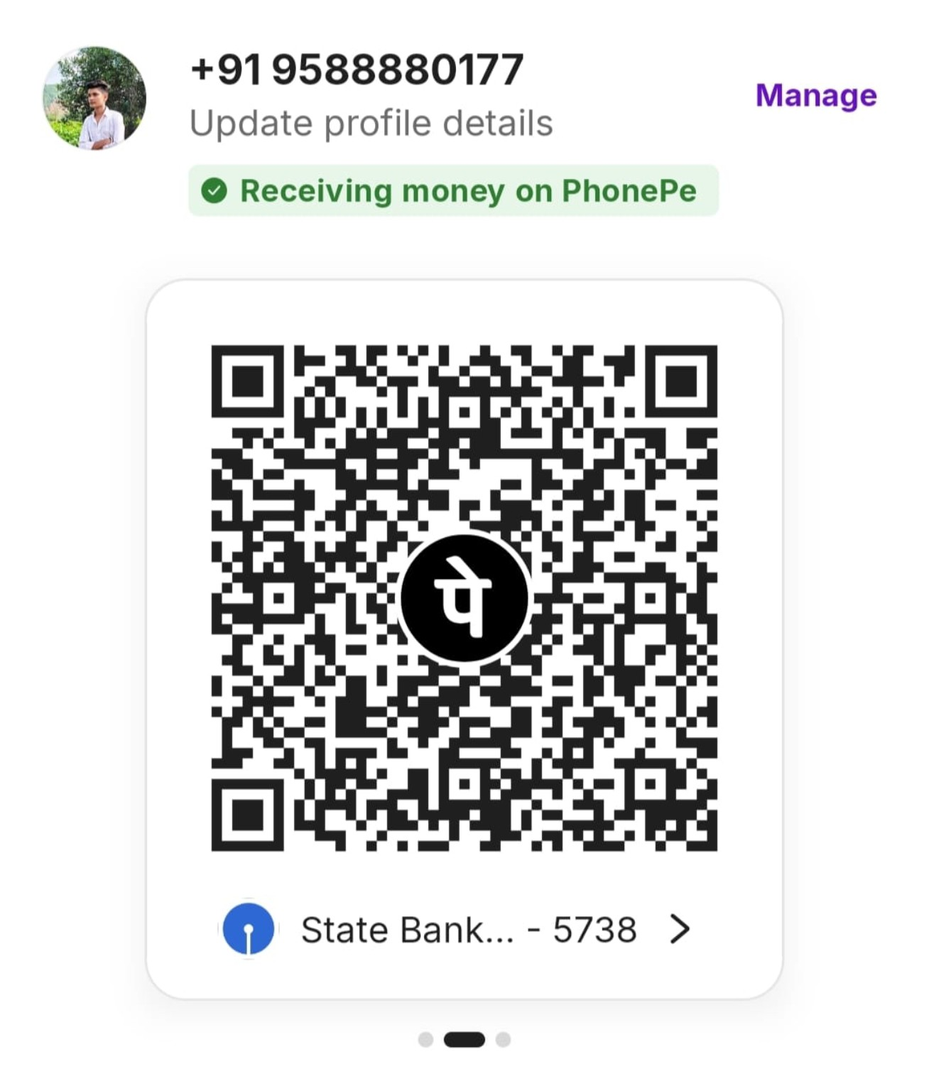
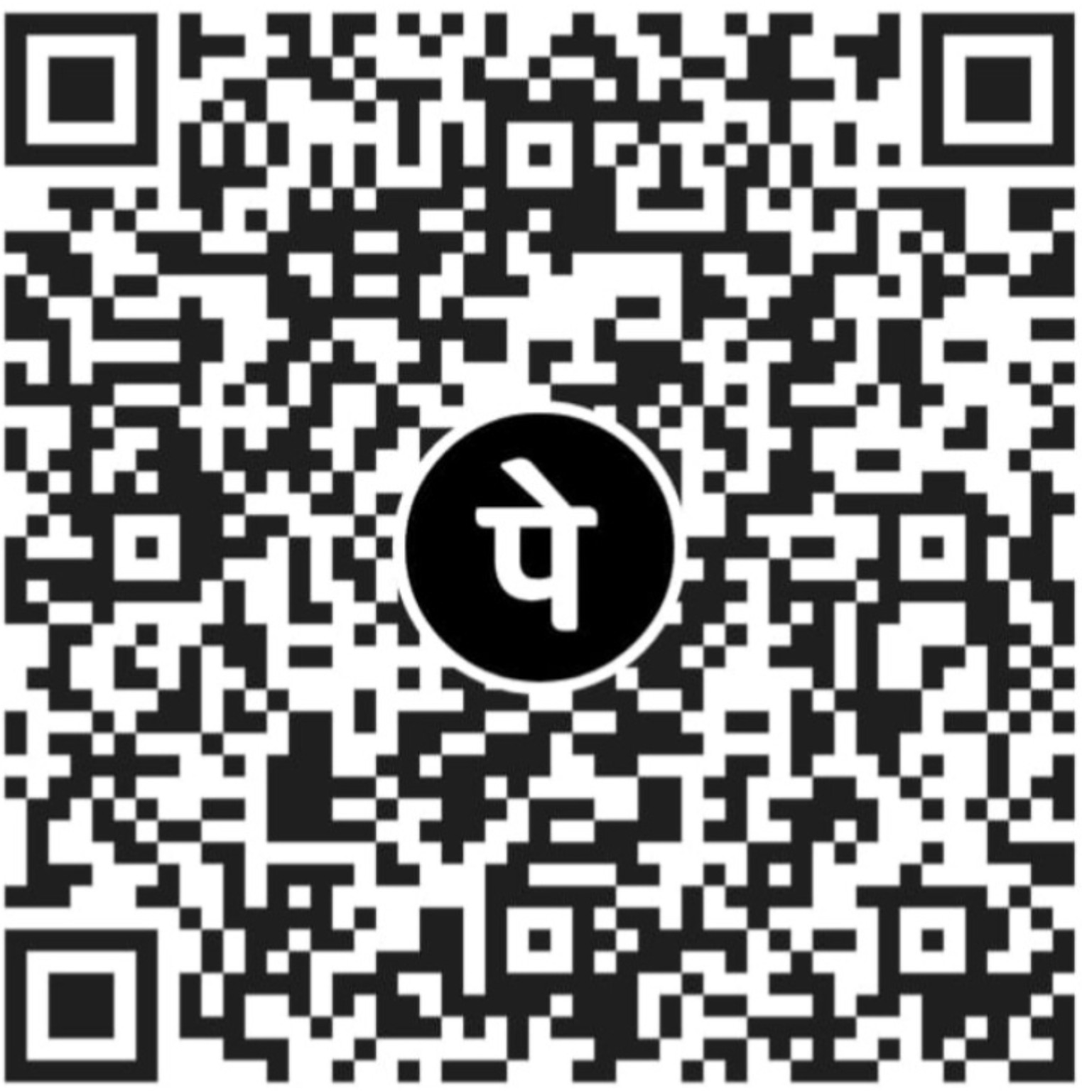
Add files via upload

diff --git a/index.html b/index.html
@@ -1,183 +1,146 @@
 <!doctype html>
-<html lang="en">
+<html lang="hi">
 <head>
-<meta charset="utf-8">
-<meta name="viewport" content="width=device-width, initial-scale=1">
-<meta name="theme-color" content="#090909">
-<title>DJ Karni Kripa | डीजे कर्णी कृपा</title>
-<meta name="description" content="DJ Karni Kripa — premium DJ services for weddings, birthdays, parties and functions across Sikar and up to 150 km.">
-<link rel="preconnect" href="https://fonts.googleapis.com">
-<link rel="preconnect" href="https://fonts.gstatic.com" crossorigin>
-<link href="https://fonts.googleapis.com/css2?family=Cormorant+Garamond:wght@500;600;700&family=Inter:wght@400;500;600;700&display=swap" rel="stylesheet">
-<style>
-:root{--bg:#070707;--card:#11100e;--gold:#d8ad52;--gold2:#f4d487;--muted:#a8a39a;--line:#2a261f;--white:#f8f5ee}
-*{box-sizing:border-box;scroll-behavior:smooth}
-body{margin:0;background:radial-gradient(circle at 75% 0,#21180a 0,transparent 30%),var(--bg);color:var(--white);font-family:Inter,system-ui,sans-serif}
-a{color:inherit;text-decoration:none}.container{width:min(1160px,92%);margin:auto}
-nav{position:fixed;top:0;left:0;right:0;z-index:20;background:rgba(7,7,7,.84);backdrop-filter:blur(16px);border-bottom:1px solid rgba(216,173,82,.15)}
-.navin{height:72px;display:flex;align-items:center;justify-content:space-between}.brand{font-weight:800;letter-spacing:.04em}.brand span{color:var(--gold)}
-.navlinks{display:flex;gap:24px;font-size:13px;color:#d8d2c7}.navlinks a:hover{color:var(--gold2)}
-.navcta{display:flex;gap:8px}.btn{display:inline-flex;align-items:center;justify-content:center;gap:8px;border:1px solid var(--gold);padding:12px 18px;border-radius:999px;font-weight:700;font-size:13px;cursor:pointer;transition:.2s}.btn.gold{background:linear-gradient(135deg,#b8862d,#f1ce79);color:#0a0907;border:0}.btn:hover{transform:translateY(-2px);filter:brightness(1.08)}
-.hero{padding:120px 0 70px;min-height:760px;display:grid;grid-template-columns:1.05fr .95fr;gap:40px;align-items:center}
-.eyebrow{color:var(--gold2);letter-spacing:.2em;text-transform:uppercase;font-size:12px;font-weight:700}.hero h1{font-family:"Cormorant Garamond",serif;font-size:clamp(58px,8vw,106px);line-height:.86;margin:16px 0}.hero h1 span{color:var(--gold)}.hero p{color:#c2bdb2;max-width:590px;line-height:1.8}.hero-actions{display:flex;gap:12px;flex-wrap:wrap;margin:26px 0}.trust{display:flex;gap:24px;color:#c8c0b2;font-size:13px;flex-wrap:wrap}.trust b{color:var(--white)}
-.photo-stage{position:relative;min-height:560px}.photo-stage img{width:100%;height:560px;object-fit:cover;border-radius:28px;border:1px solid #3a2d18;box-shadow:0 30px 90px rgba(0,0,0,.55)}.photo-stage:after{content:"";position:absolute;inset:14px;border:1px solid rgba(244,212,135,.35);border-radius:22px;pointer-events:none}.badge{position:absolute;bottom:22px;left:22px;background:rgba(7,7,7,.85);border:1px solid #4d3a1b;border-radius:18px;padding:15px 18px;backdrop-filter:blur(12px)}.badge strong{display:block;color:var(--gold2)}
-section{padding:85px 0}.section-head{display:flex;justify-content:space-between;align-items:end;gap:20px;margin-bottom:34px}.section-head h2{font-family:"Cormorant Garamond",serif;font-size:52px;margin:5px 0}.section-head p{color:var(--muted);max-width:550px;line-height:1.7}
-.cards{display:grid;grid-template-columns:repeat(4,1fr);gap:14px}.card{background:linear-gradient(145deg,#15130f,#0e0d0c);border:1px solid var(--line);border-radius:22px;padding:24px;min-height:170px}.icon{font-size:26px}.card h3{margin:18px 0 8px}.card p{color:var(--muted);font-size:13px;line-height:1.6}
-.pricegrid{display:grid;grid-template-columns:repeat(3,1fr);gap:18px}.price{border:1px solid #332917;background:#0e0d0b;border-radius:24px;padding:28px}.price.featured{border-color:var(--gold);box-shadow:0 0 0 1px rgba(216,173,82,.15),0 20px 60px rgba(0,0,0,.35)}.price .num{font-family:"Cormorant Garamond";font-size:50px;color:var(--gold2);margin:8px 0}.price small{color:var(--muted)}.price ul{padding-left:18px;color:#c5bfb3;line-height:2}
-.special{display:grid;grid-template-columns:1fr 1fr;gap:18px}.special .card{min-height:140px}
-.split{display:grid;grid-template-columns:1fr 1fr;gap:28px;align-items:center}.media{height:440px;border-radius:26px;object-fit:cover;width:100%;border:1px solid #3b2e19}.abouttext p{color:var(--muted);line-height:1.9}.aboutlist{display:grid;grid-template-columns:1fr 1fr;gap:10px;margin-top:22px}.pill{border:1px solid var(--line);padding:12px 14px;border-radius:12px;color:#d6cec0;font-size:13px}
-.calendar-wrap{background:#0d0c0a;border:1px solid var(--line);border-radius:26px;padding:22px}.legend{display:flex;gap:18px;flex-wrap:wrap;font-size:12px;color:#bdb5a8;margin-bottom:18px}.dot{width:9px;height:9px;border-radius:50%;display:inline-block;margin-right:6px}.available{background:#4fc477}.pending{background:#e6ae35}.booked{background:#e45b55}.calendar-grid{display:grid;grid-template-columns:repeat(7,1fr);gap:7px}.weekday{font-size:11px;color:#827c72;text-align:center;padding:8px}.day{min-height:78px;border:1px solid #25221d;border-radius:12px;padding:9px;background:#11100e;position:relative}.day .date{font-weight:700;font-size:12px}.day.available-day{border-color:#263b2b}.day.pending-day{border-color:#4b3b20}.day.booked-day{border-color:#482422}.status{position:absolute;bottom:8px;left:9px;font-size:10px;color:#aaa}.day small{display:block;margin-top:12px;color:#d2c9b9;font-size:9px;line-height:1.3}
-.booking{display:grid;grid-template-columns:1.1fr .9fr;gap:24px}.form{background:#0e0d0b;border:1px solid var(--line);border-radius:26px;padding:26px}.fields{display:grid;grid-template-columns:1fr 1fr;gap:14px}.field{display:flex;flex-direction:column;gap:7px}.field.full{grid-column:1/-1}.field label{font-size:12px;color:#aaa296}.field input,.field select{width:100%;padding:13px 14px;border-radius:12px;border:1px solid #302b23;background:#15130f;color:#fff;outline:none}.field input:focus,.field select:focus{border-color:var(--gold)}.paybox{background:linear-gradient(145deg,#16120b,#0c0b09);border:1px solid #49371a;border-radius:26px;padding:26px;text-align:center}.paybox img{width:230px;height:230px;object-fit:cover;border-radius:14px;background:#fff;padding:8px}.paybox .advance{font-size:30px;color:var(--gold2);font-weight:800;margin:10px}.note{font-size:11px;color:#918a7d;line-height:1.6}
-.contact{display:grid;grid-template-columns:1fr 1fr;gap:20px}.contact-card{background:#0e0d0b;border:1px solid var(--line);border-radius:22px;padding:26px}.contact-big{font-size:28px;color:var(--gold2);font-weight:800}
-footer{border-top:1px solid var(--line);padding:30px 0;color:#777168;font-size:12px}.floating{position:fixed;bottom:18px;right:18px;z-index:30;display:flex;flex-direction:column;gap:8px}.floatbtn{width:52px;height:52px;border-radius:50%;display:grid;place-items:center;background:#14110b;border:1px solid var(--gold);font-size:20px;box-shadow:0 10px 30px #000}
-.lang{border:1px solid #3a3020;border-radius:999px;padding:7px 10px;background:#0e0d0b;color:#d9caa9;cursor:pointer}
-@media(max-width:900px){.navlinks{display:none}.hero,.split,.booking,.contact{grid-template-columns:1fr}.hero{padding-top:105px}.photo-stage{min-height:440px}.photo-stage img{height:440px}.cards{grid-template-columns:1fr 1fr}.pricegrid{grid-template-columns:1fr}.section-head{display:block}.fields{grid-template-columns:1fr}}
-@media(max-width:520px){.cards,.special,.aboutlist{grid-template-columns:1fr}.hero h1{font-size:64px}.navcta .btn{padding:10px 12px}.day{min-height:65px;padding:7px}.day small{display:none}}
-</style>
+  <meta charset="utf-8">
+  <meta name="viewport" content="width=device-width,initial-scale=1">
+  <meta name="theme-color" content="#0b0b0d">
+  <title>DJ Karni Kripa | Premium DJ Service</title>
+  <meta name="description" content="DJ Karni Kripa — premium DJ, Barat, Night DJ और announcement service.">
+  <link rel="stylesheet" href="style.css">
 </head>
 <body>
-<nav><div class="container navin">
-  <a class="brand" href="#home">DJ <span>Karni Kripa</span></a>
-  <div class="navlinks"><a href="#home">Home</a><a href="#services">Services</a><a href="#pricing">Pricing</a><a href="#availability">Availability</a><a href="#booking">Booking</a><a href="#contact">Contact</a></div>
-  <div class="navcta"><button class="lang" id="langBtn">हिंदी</button><a class="btn gold" href="#booking">Book Now</a></div>
-</div></nav>
+<header class="topbar">
+  <a class="brand" href="#home"><span>DJ</span> KARNI KRIPA</a>
+  <button class="menu" aria-label="Menu" onclick="document.body.classList.toggle('nav-open')">☰</button>
+  <nav>
+    <a href="#home">Home</a>
+    <a href="#services">Services</a>
+    <a href="#pricing">Rates</a>
+    <a href="#owner">Owner</a>
+    <a href="#booking">Booking</a>
+    <a href="#payment">Payment</a>
+  </nav>
+</header>
 
-<main>
-<section id="home" class="container hero">
-  <div>
-    <div class="eyebrow">Premium DJ • Sikar + 150 KM</div>
-    <h1>DJ Karni<br><span>Kripa</span></h1>
-    <p id="heroText">शादी, बारात, birthday, engagement, party और हर तरह के function के लिए premium DJ service. 24×7 event availability और complete DJ setup.</p>
-    <div class="hero-actions"><a class="btn gold" href="#booking">Book Your Date →</a><a class="btn" href="#availability">Check Availability</a></div>
-    <div class="trust"><span>★ <b>Complete Setup</b></span><span>◉ <b>24×7</b></span><span>⌖ <b>150 KM Service</b></span></div>
-  </div>
-  <div class="photo-stage">
-    <img src="assets/dj.jpg" alt="DJ Karni Kripa">
-    <div class="badge"><strong>DJ Karni Kripa | डीजे कर्णी कृपा</strong><span>Professional DJ Service</span></div>
-  </div>
-</section>
-
-<section id="services"><div class="container">
-  <div class="section-head"><div><div class="eyebrow">What we do</div><h2>Every Celebration. One DJ.</h2></div><p>Wedding से लेकर birthday और private party तक — complete DJ setup के साथ event-ready service.</p></div>
-  <div class="cards">
-    <div class="card"><div class="icon">💍</div><h3>Wedding</h3><p>Shaadi, baraat, engagement & sangeet.</p></div>
-    <div class="card"><div class="icon">🎂</div><h3>Birthday</h3><p>Birthday parties और private celebrations.</p></div>
-    <div class="card"><div class="icon">🎉</div><h3>All Functions</h3><p>Party, corporate, school, college और other functions.</p></div>
-    <div class="card"><div class="icon">🔊</div><h3>Complete Setup</h3><p>DJ sound, lights और event-ready setup.</p></div>
-  </div>
-</div></section>
-
-<section id="pricing"><div class="container">
-  <div class="section-head"><div><div class="eyebrow">Simple pricing</div><h2>Packages</h2></div><p>Clear pricing. Booking confirmation के लिए ₹1,100 advance.</p></div>
-  <div class="pricegrid">
-    <div class="price"><small>STANDARD</small><div class="num">₹3,100</div><b>Per Hour</b><ul><li>Minimum 1 hour</li><li>Complete DJ setup</li><li>All function types</li></ul></div>
-    <div class="price featured"><small>NIGHT PACKAGE</small><div class="num">₹5,100</div><b>3 Hours</b><ul><li>Night events</li><li>Complete DJ setup</li><li>₹1,100 advance</li></ul></div>
-    <div class="price"><small>BARAAT</small><div class="num">₹11,000</div><b>Event Package</b><ul><li>Baraat DJ service</li><li>Complete setup</li><li>Advance: ₹1,100</li></ul></div>
-  </div>
-</div></section>
-
-<section><div class="container">
-  <div class="section-head"><div><div class="eyebrow">Special services</div><h2>More Than Just DJ</h2></div></div>
-  <div class="special">
-    <div class="card"><div class="icon">📢</div><h3>DJ Announcement</h3><p><b style="color:#f4d487;font-size:22px">₹500/km</b><br>Villages & cities में DJ के साथ announcement.</p></div>
-    <div class="card"><div class="icon">🇮🇳</div><h3>Shaheed Rally</h3><p><b style="color:#f4d487">Only Diesel Charges</b><br>Shaheed rally के लिए सिर्फ diesel cost.</p></div>
-  </div>
-</div></section>
-
-<section><div class="container split">
-  <img class="media" src="assets/dj-setup.jpg" alt="DJ Karni Kripa complete DJ setup">
-  <div class="abouttext"><div class="eyebrow">About</div><h2>DJ Karni Kripa | डीजे कर्णी कृपा</h2>
-  <p>Sikar से 150 km तक professional DJ service. 24×7 event timing के साथ शादी, birthday, party, baraat और सभी तरह के functions के लिए booking available.</p>
-  <div class="aboutlist"><div class="pill">📍 Sikar + 150 KM</div><div class="pill">🕐 24×7 Flexible</div><div class="pill">🔊 Complete Setup</div><div class="pill">💳 ₹1,100 Advance</div></div>
-  </div>
-</div></section>
-
-<section id="availability"><div class="container">
-  <div class="section-head"><div><div class="eyebrow">Live booking calendar</div><h2>Check Availability</h2></div><p>Next 2 months की availability यहाँ दिखेगी. Public view में payment details नहीं दिखेंगी.</p></div>
-  <div class="calendar-wrap">
-    <div class="legend"><span><i class="dot available"></i>Available</span><span><i class="dot pending"></i>Pending</span><span><i class="dot booked"></i>Booked</span></div>
-    <div id="calendar"></div>
-  </div>
-</div></section>
-
-<section id="booking"><div class="container">
-  <div class="section-head"><div><div class="eyebrow">Reserve your date</div><h2>Book DJ Karni Kripa</h2></div><p>पहले date check करें. Booking request के बाद ₹1,100 advance payment से confirmation होगा.</p></div>
-  <div class="booking">
-    <form class="form" id="bookingForm">
-      <div class="fields">
-        <div class="field"><label>Customer Name *</label><input name="name" required placeholder="Your name"></div>
-        <div class="field"><label>Contact *</label><input name="contact" required type="tel" placeholder="Mobile number"></div>
-        <div class="field"><label>Village / City *</label><input name="village" required placeholder="Village / City"></div>
-        <div class="field"><label>Location / Venue *</label><input name="location" required placeholder="Event location"></div>
-        <div class="field"><label>Function *</label><select name="function" required><option value="">Select function</option><option>Wedding / Shaadi</option><option>Baraat</option><option>Birthday</option><option>Engagement</option><option>Sangeet</option><option>Party</option><option>Corporate</option><option>School / College</option><option>Other Function</option></select></div>
-        <div class="field"><label>Budget *</label><input name="budget" required type="number" min="0" placeholder="₹"></div>
-        <div class="field"><label>How many days? *</label><input name="days" required type="number" min="1" value="1"></div>
-        <div class="field"><label>Event Date *</label><input name="date" required type="date"></div>
-        <div class="field full"><label>Optional note</label><input name="note" placeholder="Any special requirement"></div>
-        <div class="field full"><button class="btn gold" type="submit">Continue to ₹1,100 Advance →</button></div>
+<main id="home">
+  <section class="hero">
+    <div class="hero-copy">
+      <p class="eyebrow">PREMIUM DJ • BARAT • EVENTS</p>
+      <h1>Music that makes<br><em>the moment.</em></h1>
+      <p class="lead">शादी, बारात, पार्टी और special events के लिए professional DJ setup और energetic sound experience.</p>
+      <div class="actions">
+        <a class="btn primary" href="tel:8003890561">Call for Booking</a>
+        <a class="btn ghost" href="#booking">Check Availability</a>
       </div>
-      <p class="note">Wedding bookings: ideally at least 1 month before. Other party/function bookings: up to 1 day before, subject to availability. Advance is non-refundable.</p>
-    </form>
-    <div class="paybox">
-      <div class="eyebrow">Advance Payment</div><h3>Secure Your Date</h3>
-      <div class="advance">₹1,100</div>
-      <img src="assets/payment-qr.jpg" alt="UPI QR code">
-      <p class="note">QR image supplied by owner. Before going live, replace this file with a clean QR-only crop for reliable scanning.</p>
-      <a class="btn" href="tel:+918003890561">📞 8003890561</a>
+      <div class="quick"><span>24×7 Booking</span><span>•</span><span>Sikar + nearby areas</span></div>
     </div>
-  </div>
-</div></section>
+    <div class="hero-image">
+      <img src="assets/dj-setup.jpg" alt="DJ Karni Kripa DJ setup">
+    </div>
+  </section>
 
-<section id="contact"><div class="container">
-  <div class="section-head"><div><div class="eyebrow">Contact</div><h2>Let's Make It Loud.</h2></div></div>
-  <div class="contact">
-    <div class="contact-card"><div class="eyebrow">Call / WhatsApp</div><div class="contact-big">8003890561</div><p style="color:#999">Booking & enquiries — 24×7.</p><div style="display:flex;gap:10px"><a class="btn gold" href="tel:+918003890561">Call Now</a><a class="btn" target="_blank" href="https://wa.me/918003890561?text=Hello%20DJ%20Karni%20Kripa%2C%20I%20want%20to%20check%20DJ%20availability.">WhatsApp</a></div></div>
-    <div class="contact-card"><div class="eyebrow">Service Area</div><h3>Sikar + 150 KM</h3><p style="color:#999;line-height:1.7">DJ Karni Kripa serves Sikar and surrounding villages/cities within approximately 150 km.</p><a class="btn" target="_blank" href="https://www.google.com/maps/search/?api=1&query=Sikar%2C%20Rajasthan">Open Sikar on Maps →</a></div>
-  </div>
-</div></section>
+  <section id="services" class="section">
+    <div class="section-head"><p class="eyebrow">WHAT WE DO</p><h2>Built for big moments.</h2></div>
+    <div class="cards">
+      <article><b>01</b><h3>Wedding & Barat</h3><p>बारात और शादी के functions के लिए full DJ setup.</p></article>
+      <article><b>02</b><h3>Night Events</h3><p>Night functions के लिए dedicated DJ package.</p></article>
+      <article><b>03</b><h3>Announcement</h3><p>गाँव/शहर में DJ के साथ announcement service.</p></article>
+      <article><b>04</b><h3>Special Rallies</h3><p>Special rally/event के लिए diesel अलग से.</p></article>
+    </div>
+  </section>
+
+  <section id="pricing" class="section dark-section">
+    <div class="section-head"><p class="eyebrow">SIMPLE PRICING</p><h2>Choose your setup.</h2></div>
+    <div class="price-grid">
+      <div class="price"><span>Hourly</span><strong>₹3,100</strong><small>Minimum 1 hour</small></div>
+      <div class="price featured"><span>Barat</span><strong>₹11,000</strong><small>Barat package</small></div>
+      <div class="price"><span>Night</span><strong>₹5,100</strong><small>3 hours</small></div>
+      <div class="price"><span>Announcement</span><strong>₹500/km</strong><small>DJ के साथ</small></div>
+    </div>
+    <div class="notes">
+      <span>Booking advance: ₹1,100</span>
+      <span>Advance is non-refundable</span>
+      <span>Wedding: book 1 month before</span>
+      <span>Other parties: book 1 day before</span>
+    </div>
+  </section>
+
+  <section id="owner" class="section owner-section">
+    <div class="owner-photo"><img src="assets/owner-devendra-singh.png" alt="Devendra Singh, owner of DJ Karni Kripa"></div>
+    <div class="owner-copy">
+      <p class="eyebrow">THE OWNER</p>
+      <h2>Devendra Singh</h2>
+      <p>DJ Karni Kripa को professional service और reliable event experience के साथ आगे बढ़ाने वाले owner.</p>
+      <a class="phone" href="tel:8003890561">8003890561</a>
+      <a class="btn primary" href="tel:8003890561">Contact Owner</a>
+    </div>
+  </section>
+
+  <section id="booking" class="section booking-section">
+    <div class="section-head">
+      <p class="eyebrow">LIVE AVAILABILITY</p>
+      <h2>Next 2 months.</h2>
+      <p>सिर्फ booking date दिखाई जाती है — payment details calendar में नहीं दिखाई जातीं.</p>
+    </div>
+    <div class="booking-layout">
+      <div>
+        <div class="calendar-bar">
+          <button class="cal-btn" onclick="changeMonth(-1)">‹</button>
+          <strong id="monthTitle"></strong>
+          <button class="cal-btn" onclick="changeMonth(1)">›</button>
+        </div>
+        <div class="calendar" id="calendar"></div>
+      </div>
+      <form id="bookingForm" class="booking-form">
+        <h3>Add booking</h3>
+        <label>Customer name<input name="name" required></label>
+        <label>Contact<input name="contact" inputmode="tel" required></label>
+        <label>Village<input name="village" required></label>
+        <label>Location<input name="location" required></label>
+        <label>Function<select name="function" required>
+          <option value="">Select</option><option>Wedding</option><option>Barat</option><option>Party</option><option>Night Event</option><option>Announcement</option><option>Other</option>
+        </select></label>
+        <label>Budget<input name="budget" inputmode="numeric" placeholder="₹"></label>
+        <label>How many days?<input name="days" type="number" min="1" required></label>
+        <label>Booking date<input name="date" id="bookingDate" type="date" required></label>
+        <button class="btn primary" type="submit">Save Booking</button>
+        <p class="form-note">Bookings are saved in this browser. For shared live booking data across devices, connect a database/backend.</p>
+      </form>
+    </div>
+    <div id="bookingList" class="booking-list"></div>
+  </section>
+
+  <section id="payment" class="section payment-section">
+    <div class="payment-card">
+      <div>
+        <p class="eyebrow">PAYMENT</p>
+        <h2>Pay via UPI</h2>
+        <p>Booking advance: <b>₹1,100</b> • Non-refundable</p>
+        <p class="upi">UPI: <strong>9588880177</strong></p>
+        <a class="btn ghost" href="tel:9588880177">Payment Help</a>
+      </div>
+      <div class="qr"><img src="assets/payment-qr.jpg" alt="UPI QR code for payment"><small>Scan to pay</small></div>
+    </div>
+  </section>
+
+  <section class="section contact-strip">
+    <p class="eyebrow">READY TO BOOK?</p>
+    <h2>Let's make your event loud.</h2>
+    <a class="btn primary" href="tel:8003890561">8003890561</a>
+  </section>
 </main>
 
-<footer><div class="container">© <span id="year"></span> DJ Karni Kripa | डीजे कर्णी कृपा. All rights reserved.</div></footer>
-<div class="floating"><a class="floatbtn" href="tel:+918003890561" aria-label="Call">📞</a><a class="floatbtn" target="_blank" href="https://wa.me/918003890561?text=Hello%20DJ%20Karni%20Kripa%2C%20I%20want%20to%20book%20DJ." aria-label="WhatsApp">💬</a></div>
-
-<script>
-const bookings = JSON.parse(localStorage.getItem("djkk_demo_bookings")||"[]");
-const pad=n=>String(n).padStart(2,"0");
-function renderCalendar(){
-  const host=document.getElementById("calendar"); host.innerHTML="";
-  const now=new Date(); now.setHours(0,0,0,0);
-  for(let m=0;m<2;m++){
-    const d=new Date(now.getFullYear(),now.getMonth()+m,1), y=d.getFullYear(), mo=d.getMonth();
-    const title=document.createElement("h3"); title.textContent=d.toLocaleString("en-IN",{month:"long",year:"numeric"}); title.style.color="#f4d487"; host.appendChild(title);
-    const grid=document.createElement("div"); grid.className="calendar-grid";
-    ["Sun","Mon","Tue","Wed","Thu","Fri","Sat"].forEach(x=>{const e=document.createElement("div");e.className="weekday";e.textContent=x;grid.appendChild(e)});
-    for(let i=0;i<d.getDay();i++) grid.appendChild(document.createElement("div"));
-    const days=new Date(y,mo+1,0).getDate();
-    for(let day=1;day<=days;day++){
-      const key=`${y}-${pad(mo+1)}-${pad(day)}`;
-      const b=bookings.find(x=>x.date===key);
-      const e=document.createElement("div"); e.className="day "+(b?(b.status==="booked"?"booked-day":"pending-day"):"available-day");
-      e.innerHTML=`<div class="date">${day}</div><div class="status">${b?(b.status==="booked"?"🔴 BOOKED":"🟡 PENDING"):"🟢 Available"}</div>`;
-      if(b) e.innerHTML+=`<small>${b.function||"Event"}<br>${b.village||""}</small>`;
-      grid.appendChild(e);
-    }
-    host.appendChild(grid);
-  }
-}
-document.getElementById("bookingForm").addEventListener("submit",e=>{
-  e.preventDefault();
-  const data=Object.fromEntries(new FormData(e.target).entries());
-  const conflict=bookings.find(x=>x.date===data.date && x.status!=="cancelled");
-  if(conflict){alert("This date is not available. Please choose another date.");return}
-  const id="DK-"+Math.floor(1000+Math.random()*9000);
-  bookings.push({...data,id,status:"pending"}); localStorage.setItem("djkk_demo_bookings",JSON.stringify(bookings));
-  renderCalendar();
-  alert(`Booking ID: ${id}\n\nDate is temporarily PENDING.\n₹1,100 advance payment is required to confirm the booking.\n\nFor the production version, this step will connect to real payment + WhatsApp confirmation.`);
-  e.target.reset();
-});
-document.getElementById("year").textContent=new Date().getFullYear();
-document.getElementById("langBtn").onclick=()=>alert("Bilingual Hindi + English content is enabled. Full language switch can be added in the next pass.");
-renderCalendar();
-</script>
+<footer>
+  <div>
+    <strong>DJ KARNI KRIPA</strong>
+    <p>Premium DJ • Barat • Events</p>
+  </div>
+  <div class="creator">
+    <small>Website by <b>Ankit Roy</b></small>
+    <a href="https://ankitroy51jm.github.io/" target="_blank" rel="noopener">Contact for Video Editing • Portfolio ↗</a>
+  </div>
+  <div class="copyright">© <span id="year"></span> DJ Karni Kripa. All rights reserved.</div>
+</footer>
+<script src="script.js"></script>
 </body>
 </html>

diff --git a/style.css b/style.css
@@ -1,0 +1,11 @@
+@import url('https://fonts.googleapis.com/css2?family=DM+Sans:wght@400;500;600;700&family=Playfair+Display:ital,wght@0,600;0,700;1,600&display=swap');
+:root{--bg:#09090b;--panel:#111114;--panel2:#17171b;--text:#f6f3ed;--muted:#aaa7a0;--gold:#d9ad62;--line:#2a2929}
+*{box-sizing:border-box}html{scroll-behavior:smooth}body{margin:0;background:var(--bg);color:var(--text);font-family:"DM Sans",Arial,sans-serif}a{color:inherit;text-decoration:none}.topbar{height:72px;padding:0 6vw;display:flex;align-items:center;justify-content:space-between;border-bottom:1px solid var(--line);position:sticky;top:0;z-index:10;background:rgba(9,9,11,.9);backdrop-filter:blur(14px)}.brand{font-weight:800;letter-spacing:.13em;font-size:14px}.brand span{color:var(--gold);margin-right:6px}.topbar nav{display:flex;gap:26px;font-size:13px;color:#c7c3ba}.topbar nav a:hover{color:var(--gold)}.menu{display:none;background:none;border:0;color:white;font-size:24px}
+.hero{min-height:calc(100vh - 72px);display:grid;grid-template-columns:1.02fr .98fr;align-items:center;gap:5vw;padding:6vw}.hero-copy{max-width:670px}.eyebrow{font-size:11px;letter-spacing:.22em;color:var(--gold);font-weight:700;margin:0 0 18px}.hero h1,h2{font-family:"Playfair Display",Georgia,serif}.hero h1{font-size:clamp(48px,7vw,92px);line-height:.94;margin:0 0 28px;letter-spacing:-.04em}.hero h1 em{color:var(--gold);font-weight:600}.lead{font-size:18px;line-height:1.7;color:var(--muted);max-width:580px}.actions{display:flex;gap:12px;margin:30px 0}.btn{display:inline-flex;align-items:center;justify-content:center;border-radius:999px;padding:13px 22px;font-weight:700;font-size:13px;border:1px solid var(--line);cursor:pointer}.btn.primary{background:var(--gold);color:#17120a;border-color:var(--gold)}.btn.ghost{background:transparent;color:var(--text)}.btn.ghost:hover{border-color:var(--gold);color:var(--gold)}.quick{display:flex;gap:12px;color:#77736d;font-size:12px}.hero-image{height:70vh;min-height:430px;border-radius:28px;overflow:hidden;border:1px solid #27262a}.hero-image img{width:100%;height:100%;object-fit:cover}
+.section{padding:100px 6vw}.section-head{max-width:760px;margin-bottom:45px}.section h2{font-size:clamp(38px,5vw,62px);margin:0 0 12px}.section-head>p:last-child{color:var(--muted)}.cards{display:grid;grid-template-columns:repeat(4,1fr);border-top:1px solid var(--line)}.cards article{padding:30px 25px 35px;border-right:1px solid var(--line)}.cards article:last-child{border-right:0}.cards b{color:var(--gold);font-size:12px}.cards h3{font-size:20px;margin:35px 0 10px}.cards p{color:var(--muted);line-height:1.6;font-size:14px}.dark-section{background:#0d0d10}.price-grid{display:grid;grid-template-columns:repeat(4,1fr);gap:14px}.price{background:var(--panel);border:1px solid var(--line);border-radius:20px;padding:28px}.price.featured{border-color:#775a2d;box-shadow:inset 0 0 0 1px #332716}.price span,.price small{display:block;color:var(--muted)}.price strong{display:block;font-size:34px;margin:28px 0 8px}.price small{font-size:12px}.notes{display:flex;flex-wrap:wrap;gap:10px;margin-top:18px}.notes span{border:1px solid var(--line);border-radius:999px;padding:9px 13px;color:#a8a49c;font-size:11px}
+.owner-section{display:grid;grid-template-columns:1fr 1fr;gap:7vw;align-items:center}.owner-photo{border-radius:28px;overflow:hidden;border:1px solid var(--line);max-height:700px}.owner-photo img{display:block;width:100%;height:auto}.owner-copy p:not(.eyebrow){color:var(--muted);font-size:17px;line-height:1.7;max-width:520px}.phone{display:block;font-size:28px;color:var(--gold);font-weight:700;margin:25px 0}
+.booking-section{background:#0d0d10}.booking-layout{display:grid;grid-template-columns:1.3fr .7fr;gap:30px}.calendar-bar{display:flex;justify-content:space-between;align-items:center;margin-bottom:14px}.cal-btn{width:40px;height:40px;border-radius:50%;border:1px solid var(--line);background:var(--panel);color:white;font-size:24px;cursor:pointer}.calendar{display:grid;grid-template-columns:repeat(7,1fr);border:1px solid var(--line);border-radius:18px;overflow:hidden}.day,.weekday{min-height:72px;padding:9px;border-right:1px solid var(--line);border-bottom:1px solid var(--line)}.weekday{min-height:auto;text-align:center;font-size:10px;color:#777;padding:10px}.day.empty{background:#0b0b0d}.day .num{font-size:12px}.day.booked{background:#302417;color:var(--gold)}.day.booked:after{content:"BOOKED";display:block;font-size:8px;margin-top:8px;color:#e5c991}.booking-form{background:var(--panel);border:1px solid var(--line);border-radius:20px;padding:25px}.booking-form h3{margin-top:0}.booking-form label{display:block;font-size:11px;color:#999;margin:12px 0}.booking-form input,.booking-form select{display:block;width:100%;margin-top:6px;background:#0b0b0d;color:white;border:1px solid #303034;border-radius:10px;padding:11px}.form-note{font-size:10px;line-height:1.5;color:#777}.booking-list{margin-top:25px}.booking-item{display:flex;justify-content:space-between;gap:15px;border-bottom:1px solid var(--line);padding:13px 0;color:#aaa;font-size:12px}.booking-item strong{color:white}
+.payment-card{display:grid;grid-template-columns:1fr 260px;gap:40px;align-items:center;background:linear-gradient(135deg,#151515,#0e0e10);border:1px solid var(--line);border-radius:28px;padding:40px}.upi{font-size:22px;color:var(--gold)}.qr{background:white;border-radius:18px;padding:14px;text-align:center;color:#111}.qr img{width:100%;display:block}.qr small{display:block;padding:7px}.contact-strip{text-align:center;background:var(--gold);color:#18120b}.contact-strip .eyebrow{color:#5b421e}.contact-strip h2{margin-bottom:25px}.contact-strip .btn{background:#15120e;color:white;border-color:#15120e}
+footer{padding:45px 6vw 30px;border-top:1px solid var(--line);display:grid;grid-template-columns:1fr 1fr;gap:20px;color:#8c8982}footer strong{color:white;letter-spacing:.12em;font-size:13px}footer p{font-size:11px}.creator{display:flex;flex-direction:column;gap:6px;justify-self:end;text-align:right}.creator small{font-size:10px}.creator a{color:var(--gold);font-size:12px}.copyright{grid-column:1/-1;font-size:10px;color:#5d5a55;margin-top:20px}
+@media(max-width:850px){.topbar{padding:0 5vw}.menu{display:block}.topbar nav{display:none;position:absolute;top:72px;left:0;right:0;background:#0b0b0d;padding:20px 6vw;flex-direction:column}.nav-open nav{display:flex}.hero,.owner-section,.booking-layout{grid-template-columns:1fr}.hero{padding-top:45px}.hero-image{height:55vh;min-height:340px}.cards,.price-grid{grid-template-columns:1fr 1fr}.cards article:nth-child(2){border-right:0}.cards article:nth-child(3),.cards article:nth-child(4){border-top:1px solid var(--line)}.payment-card{grid-template-columns:1fr}.qr{max-width:280px}.section{padding:75px 5vw}footer{grid-template-columns:1fr}.creator{justify-self:start;text-align:left}.copyright{grid-column:auto}}
+@media(max-width:520px){.cards,.price-grid{grid-template-columns:1fr}.cards article{border-right:0;border-bottom:1px solid var(--line)}.cards article:last-child{border-bottom:0}.hero h1{font-size:52px}.day,.weekday{min-height:56px;padding:6px}.day.booked:after{font-size:6px}.payment-card{padding:25px}}

diff --git a/README.md b/README.md
@@ -1,20 +1,18 @@
 # DJ Karni Kripa Website
 
-Premium black + gold bilingual DJ booking website.
+## GitHub Pages
+Upload the contents of this folder to the repository root and keep the `assets` folder beside `index.html`.
 
-## Included
-- Responsive premium landing page
-- Owner/DJ/setup imagery
-- Pricing and special services
-- 2-month availability calendar demo
-- Booking form
-- Booking ID generation
-- Local pending booking state
-- UPI QR payment area
-- Call/WhatsApp buttons
-- Sikar + 150 km service area
+Expected structure:
+- index.html
+- style.css
+- script.js
+- assets/owner-devendra-singh.png
+- assets/dj-setup.jpg
+- assets/payment-qr.jpg
 
 ## Important
-GitHub Pages is static hosting. Real multi-user live booking, secure admin login, real payment verification, and automatic WhatsApp confirmation require a backend/database and payment/WhatsApp integration.
+The booking calendar stores entries in the visitor's browser using localStorage. It is NOT a shared cloud database. For truly shared live bookings across phones/devices, connect Firebase/Supabase or another backend.
 
-The current calendar stores demo bookings in the browser's localStorage, so it is NOT a production live booking system yet.
+Portfolio credit:
+https://ankitroy51jm.github.io/
